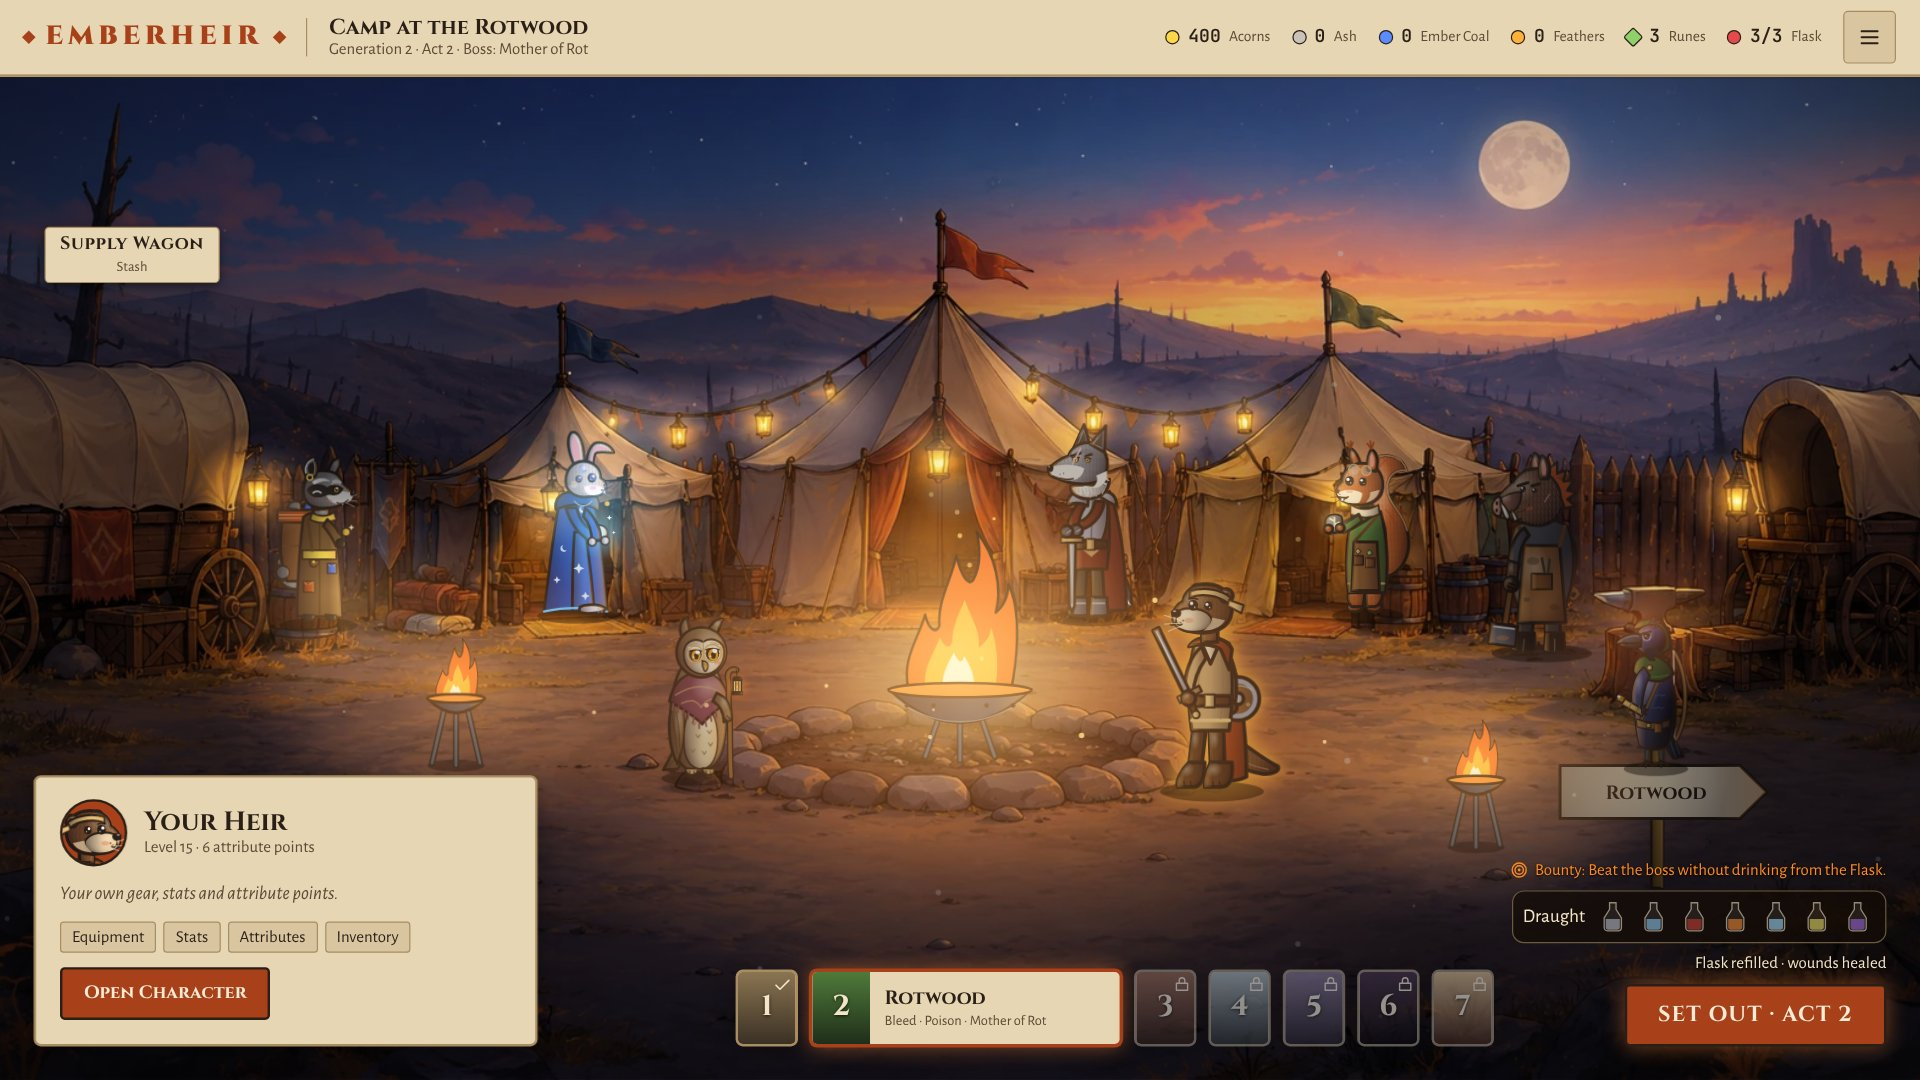
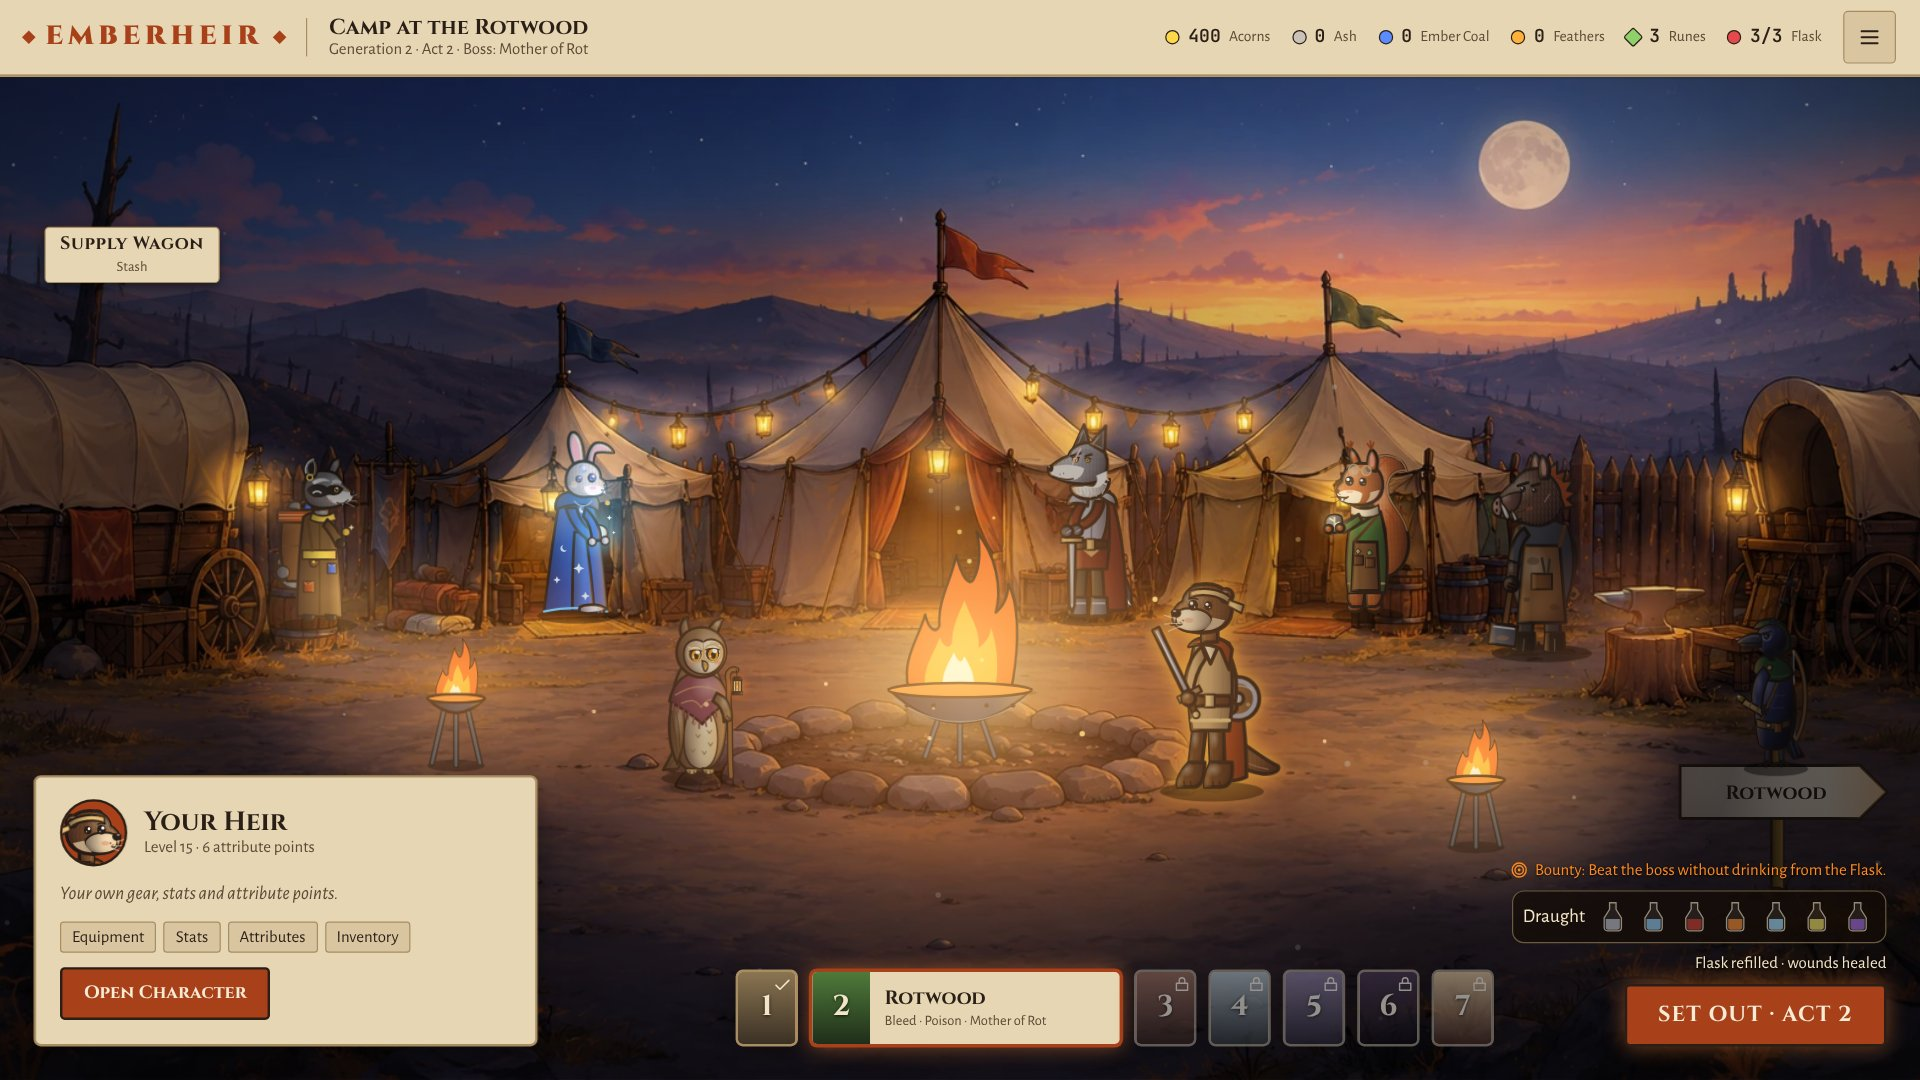
fix(web): move the signpost and Eldrin right of Thoric's anvil
Claude-Session: https://claude.ai/code/session_017LvWSAabR5jyJhNoEaBnMC

Changed region(s): [[0.8125, 0.5806, 1.0, 0.7944], [0.9062, 0.5806, 0.9375, 0.6722]]

diff --git a/apps/web/src/game/camp/art/CampScene.tsx b/apps/web/src/game/camp/art/CampScene.tsx
@@ -33,6 +33,9 @@ const IMG_W = 1916;
 const IMG_H = 821;
 const IMG_RING_X = 945;
 
+/** How far the signpost (drawn at x = 1300) moves right; Eldrin perches on it. */
+export const SIGNPOST_DX = 100;
+
 /** Collection banners (spielzeit-v1.md, E): one per full collection, on the palisade. */
 const BANNERS: Record<CollectionId, { x: number; cloth: string; emblem: string }> = {
   trophies: {
@@ -182,8 +185,8 @@ export function CampBackdrop(props: {
       ))}
       {props.ancestor && <AncestorPortrait />}
 
-      {/* Signpost to the Act */}
-      <g>
+      {/* Signpost to the Act, right of Thoric's anvil */}
+      <g transform={`translate(${SIGNPOST_DX} 0)`}>
         <S d="M1296 560 L1306 560 L1306 676 L1296 676 Z" fill="#7a5a24" w={2.2} />
         <S d="M1220 574 L1370 574 L1392 596 L1370 618 L1220 618 Z" fill="#e6d6b4" w={2.5} />
         <text
@@ -308,6 +311,16 @@ export function campLights(opts: { orb: boolean }): CampLightSource[] {
     })),
     // Marisha's corner by the Supply Wagon.
     { x: 200, y: 430, rx: 110, ry: 90, color: "#ffb060", strength: 0.35, flicker: "soft" },
+    // Eldrin on the signpost.
+    {
+      x: 1300 + SIGNPOST_DX,
+      y: 560,
+      rx: 90,
+      ry: 90,
+      color: "#ffb060",
+      strength: 0.3,
+      flicker: "soft",
+    },
     // The anvil by Thoric's forge wagon.
     { x: 1290, y: 450, rx: 90, ry: 70, color: "#ff7a2a", strength: 0.45, flicker: "soft" },
     ...LANTERNS.map(([x, y]) => ({ x, y, rx: 46, ry: 40, color: "#ffc070", strength: 0.4 })),

diff --git a/apps/web/src/game/camp/campPersonas.ts b/apps/web/src/game/camp/campPersonas.ts
@@ -1,6 +1,7 @@
 import { ACTS, GAME_DATA } from "@emberheir/content";
 import { type ActData, type GameState } from "@emberheir/sim";
 import { type IconName } from "../../ui/Icon";
+import { SIGNPOST_DX } from "./art/CampScene";
 
 /** The Camp's people: who stands where, what they say, where a click on them leads. */
 
@@ -191,7 +192,7 @@ export function personas(state: GameState, road: ActData): Persona[] {
       name: "Eldrin",
       role: "Scout",
       // Perched on the signpost to the next act: he has seen what's ahead.
-      x: 1300,
+      x: 1300 + SIGNPOST_DX,
       y: 647,
       icon: "bow",
       cloak: "#3b5a2c",
